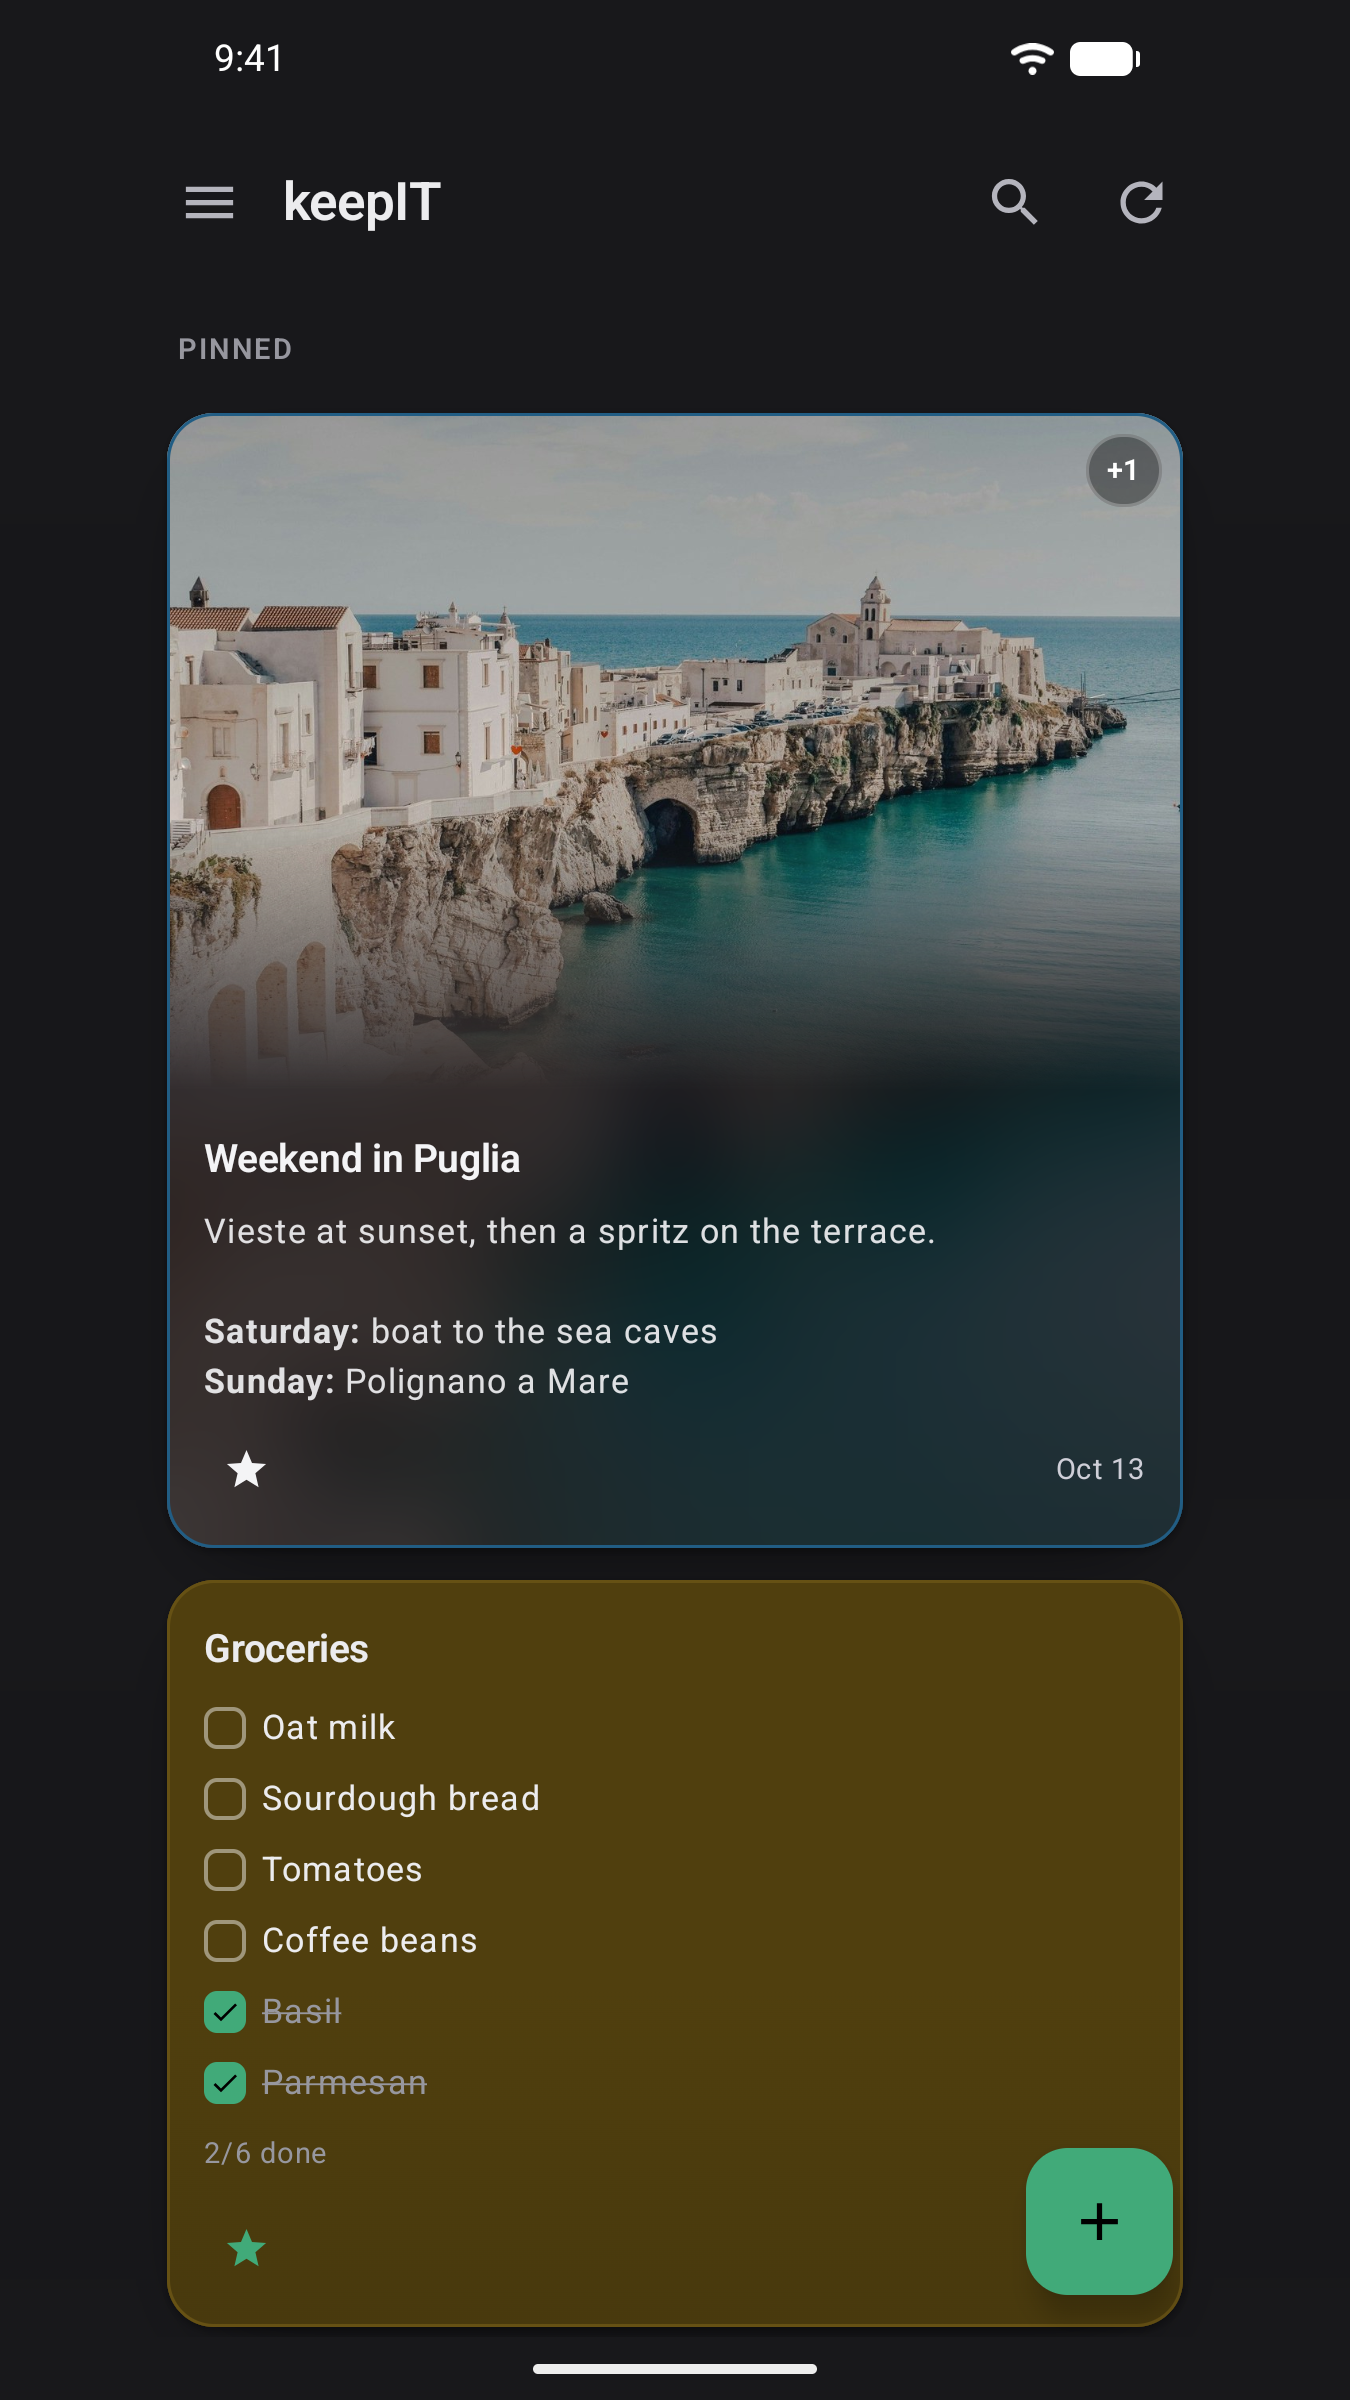
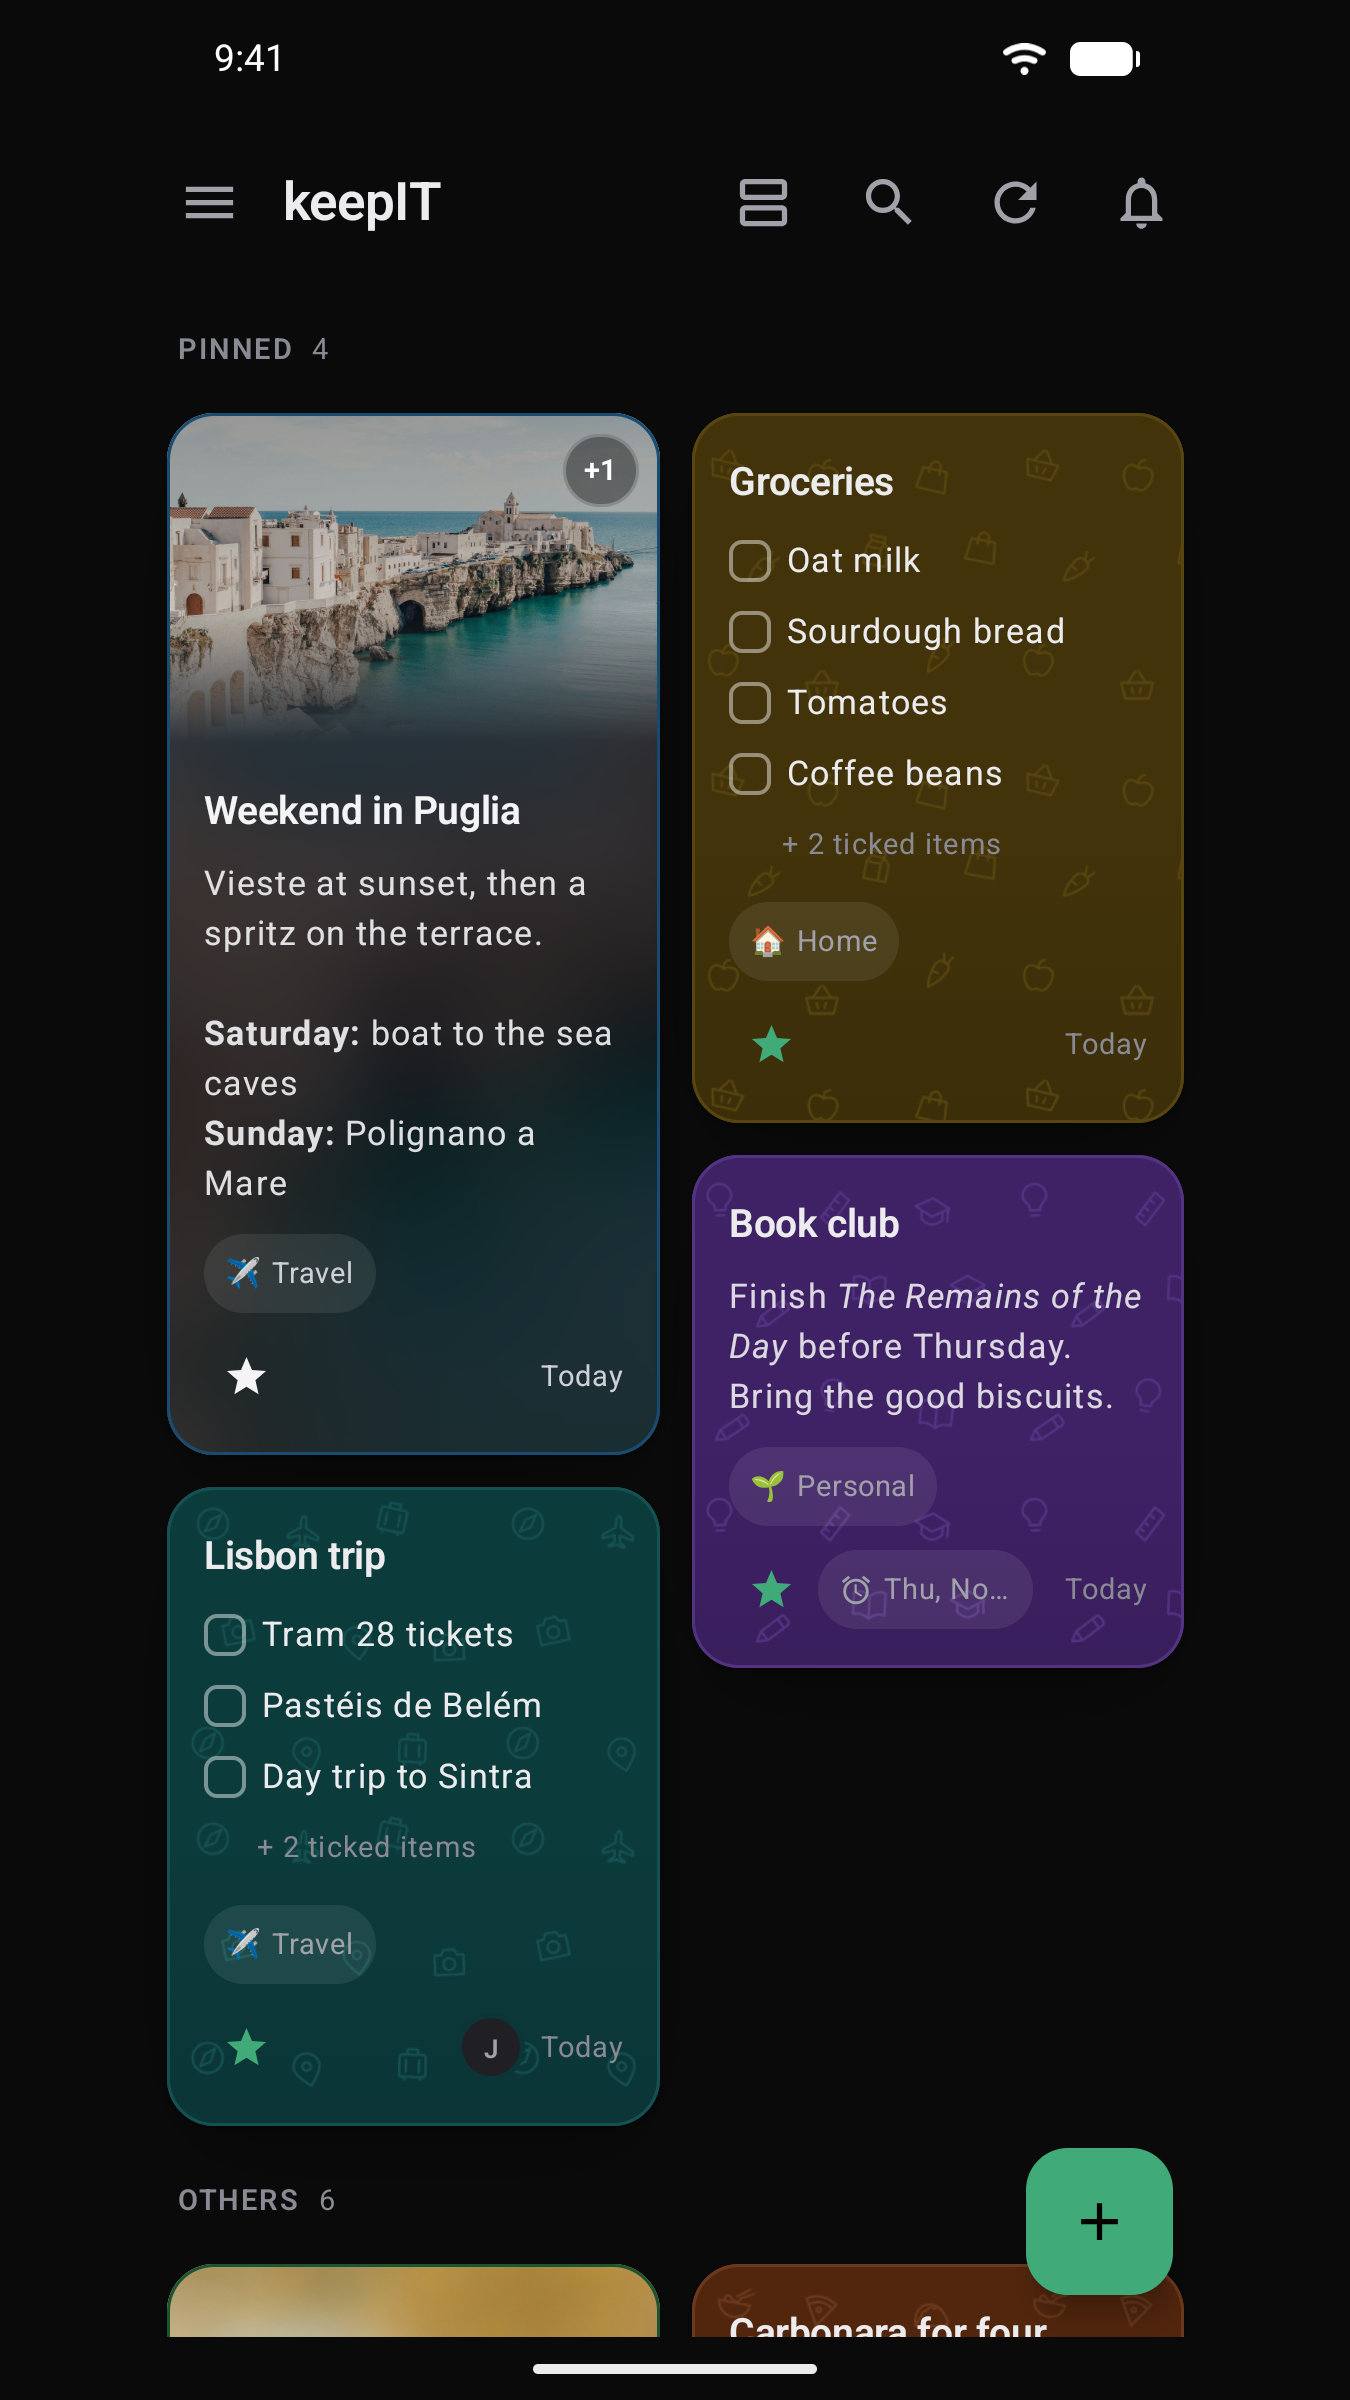
docs: retake the screenshots in dark and light, with note backgrounds
The demo and dev seeds give their notes backgrounds. The web shots are
now the notes and the editor in each theme (web-editor-dim.png goes),
and the phone shots use only dark and light. The README's top phone
shot is sized to stand as tall as the web one beside it.

diff --git a/scripts/screenshots/finish.py b/scripts/screenshots/finish.py
@@ -31,7 +31,7 @@ WEB_SIZE = (2880, 1800)
 PHONE_SIZE = (1080, 2400)
 # What a phone shot is widened to: Play Console takes phone screenshots at 16:9 or 9:16 only.
 PHONE_STORE_WIDTH = 1350
-WEB_NAMES = ["web-notes-dark.png", "web-notes-light.png", "web-editor-dim.png"]
+WEB_NAMES = ["web-notes-dark.png", "web-notes-light.png", "web-editor-dark.png", "web-editor-light.png"]
 PHONE_NAMES = [f"{n}.png" for n in range(1, 10)]
 # What deploy/keepit.unraid.xml links, and the screenshot each is a copy of.
 UNRAID_COPIES = {"screenshot_1.png": IMAGES / "web-notes-dark.png", "screenshot_phone.png": PHONE / "1.png"}

diff --git a/scripts/screenshots/README.md b/scripts/screenshots/README.md
@@ -1,7 +1,8 @@
 # Screenshots
 
 Every screenshot in the repo shows the same demo account: Anna Berger's, with a profile picture,
-five lists and ten notes chosen to show photos, a voice note, checklists, a reminder and sharing.
+five lists and ten notes chosen to show photos, a voice note, checklists, a reminder, note
+backgrounds and sharing.
 The account is not kept anywhere. `seed-demo.sh` builds it on a fresh server, and the rest of this
 folder takes the screenshots from it.
 
@@ -11,7 +12,7 @@ F-Droid reads `fastlane/metadata` from the release tag, so new ones must be on `
 | File | What it does |
 |---|---|
 | `seed-demo.sh` | Builds the demo account over the REST API. |
-| `web-shots.cjs` | Takes the three web screenshots (Playwright). |
+| `web-shots.cjs` | Takes the four web screenshots, dark and light (Playwright). |
 | `adb-ui.py` | Taps, waits and captures on the emulator by the text on screen. |
 | `finish.py` | Checks the new files and writes them where the repo keeps them. |
 
@@ -26,10 +27,11 @@ change to the app.
 |---|---|---|
 | `images/web-notes-dark.png` | Web, dark: the notes | README (top) |
 | `images/web-notes-light.png` | Web, light: the notes | README |
-| `images/web-editor-dim.png` | Web, dim: "Weekend in Puglia" open | README |
+| `images/web-editor-dark.png` | Web, dark: "Weekend in Puglia" open | README |
+| `images/web-editor-light.png` | Web, light: "Garden visitors" open | — |
 | `images/screenshot_1.png` | A copy of `web-notes-dark.png` | Unraid template |
 | `images/screenshot_phone.png` | A copy of phone `1.png` | Unraid template |
-| `fastlane/…/phoneScreenshots/1.png` to `9.png` | The Android app, see below | F-Droid; README shows 1, 2, 3, 6, 7 |
+| `fastlane/…/phoneScreenshots/1.png` to `9.png` | The Android app, see below | F-Droid; README shows 1, 2, 3, 5, 7 |
 | `fastlane/…/featureGraphic.png` | The banner | F-Droid (`docs/brand/README.md` has how) |
 
 Web screenshots are 2880×1800 (a 1440×900 window at twice the density), phone ones are taken at
@@ -98,18 +100,19 @@ localhost) and the demo account. Then take each screen with `adb-ui.py shot "$SH
 
 | File | Theme | Screen |
 |---|---|---|
-| `1.png` | Dim | The notes, at the top: the Puglia photo note and Groceries. Tap Refresh first. |
-| `2.png` | Dim | Scrolled to the other three pinned notes, all selected: long-press Groceries, tap Book club and Lisbon trip. |
-| `4.png` | Dim | "Weekend in Puglia" open in the editor. |
-| `5.png` | Dim | "Lisbon trip" open in the editor. |
-| `3.png` | Light | The notes, scrolled to "Garden visitors" (photo and voice note) and "Carbonara for four". |
-| `8.png` | Light | Settings. |
 | `9.png` | Dark | Settings → About. |
+| `1.png` | Dark | The notes, at the top: the four pinned ones. Tap Refresh first. |
+| `2.png` | Dark | Scrolled to Garden visitors and Summer BBQ, three selected: long-press Summer BBQ, tap Offsite agenda and Garden visitors. |
+| `5.png` | Dark | "Lisbon trip" open in the editor (its travel background, the share). |
 | `6.png` | Dark | The menu, scrolled to its top: the lists with their icons, the account at the bottom. |
-| `7.png` | Dim | The launcher with the keepIT widget, made taller so it shows more notes. |
+| `8.png` | Light | Settings. |
+| `3.png` | Light | The notes, at the top, as in `1.png`. Tap Refresh first. |
+| `4.png` | Light | "Weekend in Puglia" open in the editor. |
+| `7.png` | Light | The launcher with the keepIT widget, made taller (drag its top handle up) so it shows three notes. |
 
-That is the order to take them in, one theme after the other. The theme is Settings → Theme, and
-Settings is in the menu below the lists, so scroll the menu to reach it.
+Only the dark and the light theme are shown, each on both the web and the phone; the app starts in
+Dim, so set Dark first. That is the order to take them in, one theme after the other. The theme is
+Settings → Theme, and Settings is in the menu below the lists, so scroll the menu to reach it.
 
 What went wrong the last time:
 
@@ -125,6 +128,10 @@ What went wrong the last time:
 - **Dragging a widget** from the picker works with `adb shell input draganddrop`. Dragging one off
   the home screen again does not: hold it with `adb shell input motionevent DOWN x y`, wait a
   second, send a few `MOVE`s up to the "Remove" target at the top, then `UP` there.
+- **Text far too large:** the emulator's font size had been left at 200 %. Check
+  `adb shell settings get system font_scale` says 1.0 (`settings put system font_scale 1.0`).
+- **Two Wi-Fi icons** in the status bar: run `adb-ui.py demo off`, then `demo on` again.
+- **The widget picker's search** finds keepIT faster than scrolling: Browse → Search → "keep".
 - **zsh does not split a variable into a command and its arguments**: call `adb-ui.py` by its path,
   not through `U="python3 …/adb-ui.py"`.
 - **A portrait photo first in a note** fills the phone's whole first screen, because a card shows a

diff --git a/README.md b/README.md
@@ -15,9 +15,9 @@
 </div>
 
 <div align="center">
-  <img src="images/web-notes-dark.png" alt="keepIT web app in the dark theme: pinned notes with a photo, a shopping list, a reminder and a shared checklist" width="72%">
+  <img src="images/web-notes-dark.png" alt="keepIT web app in the dark theme: pinned notes with a photo, a shopping list with a background, a reminder and a shared checklist" width="69%">
   &nbsp;
-  <img src="fastlane/metadata/android/en-US/images/phoneScreenshots/1.png" alt="keepIT Android app in the dim theme: a photo note and a shopping list" width="20%">
+  <img src="fastlane/metadata/android/en-US/images/phoneScreenshots/1.png" alt="keepIT Android app in the dark theme: the same pinned notes, two to a row" width="24%">
 </div>
 
 Notes, checklists, lists, reminders and sharing in a fast web app and a native Android client,
@@ -103,13 +103,13 @@ Light, dim or dark, on the web and on your phone:
 
 <div align="center">
   <img src="images/web-notes-light.png" alt="The web app in the light theme" width="49%">
-  <img src="images/web-editor-dim.png" alt="Editing a note with photos in the web app, dim theme" width="49%">
+  <img src="images/web-editor-dark.png" alt="Editing a note with photos in the web app, dark theme" width="49%">
 </div>
 
 <div align="center">
-  <img src="fastlane/metadata/android/en-US/images/phoneScreenshots/2.png" alt="Android: three notes selected at once, with the actions for all of them in the top bar" width="23%">
-  <img src="fastlane/metadata/android/en-US/images/phoneScreenshots/3.png" alt="Android, light theme: a photo note with a voice recording, and a recipe" width="23%">
-  <img src="fastlane/metadata/android/en-US/images/phoneScreenshots/6.png" alt="Android, dark theme: the menu with lists and the signed-in account" width="23%">
+  <img src="fastlane/metadata/android/en-US/images/phoneScreenshots/3.png" alt="Android, light theme: the pinned notes, with backgrounds and a photo" width="23%">
+  <img src="fastlane/metadata/android/en-US/images/phoneScreenshots/2.png" alt="Android, dark theme: three notes selected at once, with the actions for all of them in the top bar" width="23%">
+  <img src="fastlane/metadata/android/en-US/images/phoneScreenshots/5.png" alt="Android, dark theme: a shared checklist open in the editor, on its travel background" width="23%">
   <img src="fastlane/metadata/android/en-US/images/phoneScreenshots/7.png" alt="The keepIT home-screen widget with recent notes and a new-note button" width="23%">
 </div>
 

diff --git a/CHANGELOG.md b/CHANGELOG.md
@@ -38,6 +38,9 @@ app. Earlier versions are on the [releases page](https://github.com/Richy1989/ke
 - Update the server along with the Android app: the app offers backgrounds only with a server of
   this version or newer, and says so on an older one. The database gains a column, added by the
   migrations (PostgreSQL) or at startup (SQLite); nothing to do by hand.
+- New screenshots of the web app and the Android app, in the dark and the light theme, showing
+  note backgrounds and the Android grid. The README's first phone screenshot now stands as tall as
+  the web one beside it. The dev seed scripts give their notes backgrounds too.
 
 ## 1.2.0
 
